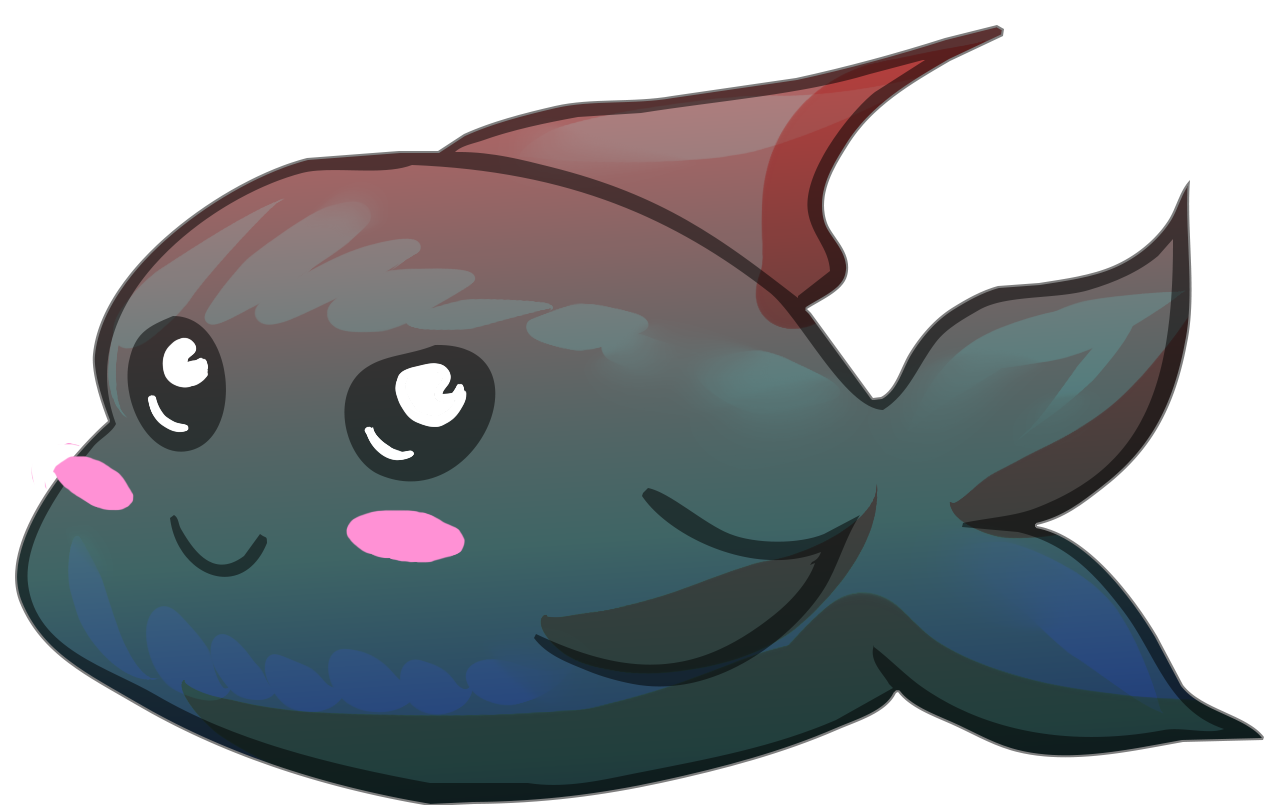
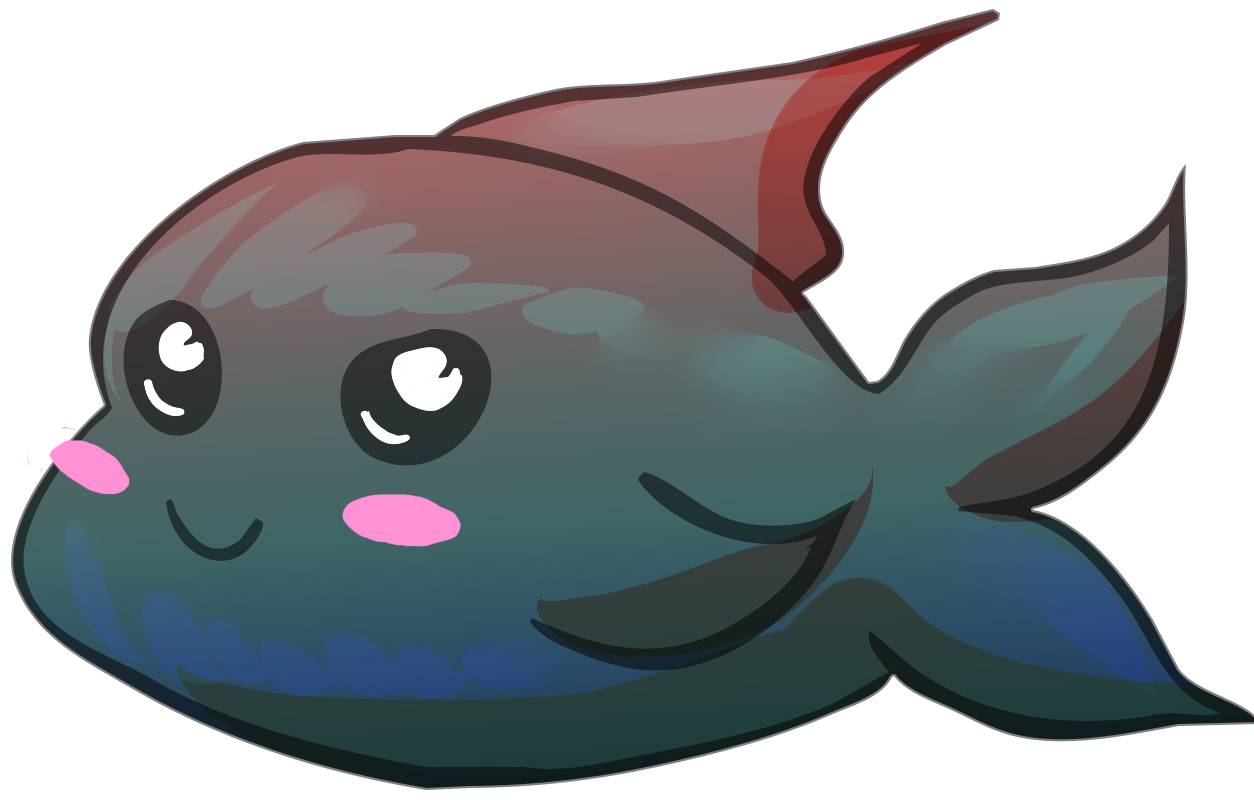
fins added

diff --git a/Aquarium/Properties/Resources.Designer.cs b/Aquarium/Properties/Resources.Designer.cs
@@ -363,6 +363,16 @@ namespace Aquarium.Properties {
         /// <summary>
         ///   Поиск локализованного ресурса типа System.Drawing.Bitmap.
         /// </summary>
+        internal static System.Drawing.Bitmap BlueNeon2 {
+            get {
+                object obj = ResourceManager.GetObject("BlueNeon2", resourceCulture);
+                return ((System.Drawing.Bitmap)(obj));
+            }
+        }
+        
+        /// <summary>
+        ///   Поиск локализованного ресурса типа System.Drawing.Bitmap.
+        /// </summary>
         internal static System.Drawing.Bitmap CatFish1 {
             get {
                 object obj = ResourceManager.GetObject("CatFish1", resourceCulture);
@@ -383,9 +393,49 @@ namespace Aquarium.Properties {
         /// <summary>
         ///   Поиск локализованного ресурса типа System.Drawing.Bitmap.
         /// </summary>
+        internal static System.Drawing.Bitmap Piranha2 {
+            get {
+                object obj = ResourceManager.GetObject("Piranha2", resourceCulture);
+                return ((System.Drawing.Bitmap)(obj));
+            }
+        }
+        
+        /// <summary>
+        ///   Поиск локализованного ресурса типа System.Drawing.Bitmap.
+        /// </summary>
         internal static System.Drawing.Bitmap SwordFish1 {
             get {
                 object obj = ResourceManager.GetObject("SwordFish1", resourceCulture);
+                return ((System.Drawing.Bitmap)(obj));
+            }
+        }
+        
+        /// <summary>
+        ///   Поиск локализованного ресурса типа System.Drawing.Bitmap.
+        /// </summary>
+        internal static System.Drawing.Bitmap SwordFish2 {
+            get {
+                object obj = ResourceManager.GetObject("SwordFish2", resourceCulture);
+                return ((System.Drawing.Bitmap)(obj));
+            }
+        }
+        
+        /// <summary>
+        ///   Поиск локализованного ресурса типа System.Drawing.Bitmap.
+        /// </summary>
+        internal static System.Drawing.Bitmap SwordFish3 {
+            get {
+                object obj = ResourceManager.GetObject("SwordFish3", resourceCulture);
+                return ((System.Drawing.Bitmap)(obj));
+            }
+        }
+        
+        /// <summary>
+        ///   Поиск локализованного ресурса типа System.Drawing.Bitmap.
+        /// </summary>
+        internal static System.Drawing.Bitmap SwordFish4 {
+            get {
+                object obj = ResourceManager.GetObject("SwordFish4", resourceCulture);
                 return ((System.Drawing.Bitmap)(obj));
             }
         }

diff --git a/Aquarium/Program.cs b/Aquarium/Program.cs
@@ -28,7 +28,7 @@ namespace Aquarium
 				})
 				.AddObject(ObjectType.Piranha, 1)
 				.AddObject(ObjectType.Catfish, 2)
-				.AddObject(ObjectType.Swordfish, 1, new Size(200, 200));
+				.AddObject(ObjectType.Swordfish, 1, new Size(300, 100));
 			aquarium.Start(provider);
 			Application.Run(new GameForm(aquarium));
 		}
